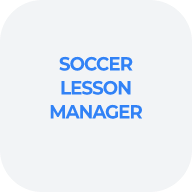
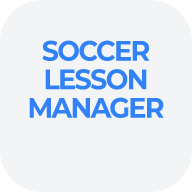
앱 아이콘 텍스트 크기 확대

Changed region(s): [[0.125, 0.1875, 0.875, 0.625]]

diff --git a/index.html b/index.html
@@ -11,10 +11,10 @@
 <meta name="theme-color" content="#3182F6"/>
 <meta name="apple-mobile-web-app-capable" content="yes"/>
 <meta name="apple-mobile-web-app-title" content="축구레슨"/>
-<link rel="manifest" href="/manifest.webmanifest?v=20260522-paperlogy"/>
-<link rel="icon" href="/icon.svg?v=20260522-paperlogy" type="image/svg+xml"/>
-<link rel="icon" href="/icons/icon-192.png?v=20260522-paperlogy" type="image/png" sizes="192x192"/>
-<link rel="apple-touch-icon" href="/apple-touch-icon.png?v=20260522-paperlogy"/>
+<link rel="manifest" href="/manifest.webmanifest?v=20260522-icon-lg"/>
+<link rel="icon" href="/icon.svg?v=20260522-icon-lg" type="image/svg+xml"/>
+<link rel="icon" href="/icons/icon-192.png?v=20260522-icon-lg" type="image/png" sizes="192x192"/>
+<link rel="apple-touch-icon" href="/apple-touch-icon.png?v=20260522-icon-lg"/>
 <script src="https://cdn.tailwindcss.com"></script>
 <script>tailwind.config={theme:{extend:{colors:{toss:{bg:'#F2F4F6',text:'#191F28',sub:'#4E5968',muted:'#8B95A1',blue:'#3182F6',green:'#0D7A5F',pink:'#F04452',emerald:'#00D084'}},fontFamily:{sans:['Paperlogy','system-ui','sans-serif']},boxShadow:{toss:'0 2px 16px rgba(0,0,0,.06)','toss-lg':'0 8px 24px rgba(0,0,0,.08)'}}}}</script>
 <link rel="stylesheet" href="https://cdn.jsdelivr.net/gh/fonts-archive/Paperlogy/Paperlogy.css"/>
@@ -275,7 +275,7 @@ const WEEKDAYS=['일','월','화','수','목','금','토'];
 let state={players:[],schedules:[]};
 let currentView='home',calendarMode='month',calendarDate=new Date(),selectedDate=null,detailTab='payment',historyViewMonth=null;
 let cloudSaveTimer=null,cloudUnsub=null,lastCloudPush=0,applyingRemote=false,firebaseReady=false,bootFinished=false,currentAuthUid=null,currentSyncSession=0;
-const APP_BUILD='20260522-soccer-v3';
+const APP_BUILD='20260522-soccer-v4';
 
 function getStorageKey(authUid){return authUid?STORAGE_KEY_BASE+'-'+authUid:STORAGE_KEY_BASE;}
 function readLocalCache(authUid){